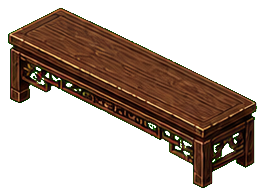
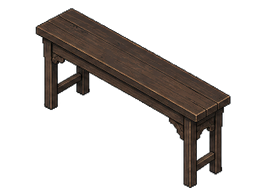
Redo furniture batch 2 assets

diff --git a/tools/cut_task42_furniture_batch2.py b/tools/cut_task42_furniture_batch2.py
@@ -1,0 +1,181 @@
+#!/usr/bin/env python3
+from pathlib import Path
+from PIL import Image, ImageDraw
+
+ROOT = Path(__file__).resolve().parents[1]
+SRC_DIR = ROOT / "assets/source/task42"
+
+ITEMS = {
+    "bed_advanced": {
+        "src": "bed_advanced_sheet_v1.png",
+        "out_dir": ROOT / "assets/furniture/bed",
+        "canvas": (370, 264),
+        "pad": 12,
+        "boxes": [
+            (10, 230, 548, 730),
+            (538, 228, 1074, 734),
+            (1058, 290, 1578, 714),
+            (1566, 290, 2040, 712),
+        ],
+    },
+    "storage_wardrobe": {
+        "src": "storage_wardrobe_sheet_v1.png",
+        "out_dir": ROOT / "assets/furniture/storage",
+        "canvas": (238, 273),
+        "pad": 10,
+        "boxes": [
+            (20, 76, 478, 894),
+            (550, 72, 990, 902),
+            (1058, 78, 1488, 900),
+            (1564, 66, 2012, 900),
+        ],
+    },
+    "table_long": {
+        "src": "table_long_sheet_v1.png",
+        "out_dir": ROOT / "assets/furniture/table",
+        "canvas": (266, 221),
+        "pad": 8,
+        "boxes": [
+            (16, 252, 512, 740),
+            (520, 252, 1018, 740),
+            (1040, 252, 1540, 742),
+            (1538, 250, 2036, 742),
+        ],
+    },
+    "chair_bench": {
+        "src": "chair_bench_sheet_v1.png",
+        "out_dir": ROOT / "assets/furniture/chair",
+        "canvas": (265, 196),
+        "pad": 8,
+        "boxes": [
+            (10, 252, 522, 724),
+            (520, 252, 1032, 728),
+            (1022, 254, 1540, 734),
+            (1532, 252, 2040, 734),
+        ],
+    },
+    "decor_books": {
+        "src": "decor_books_sheet_v1.png",
+        "out_dir": ROOT / "assets/furniture/decor",
+        "canvas": (252, 201),
+        "pad": 10,
+        "boxes": [
+            (34, 244, 528, 704),
+            (530, 250, 1018, 724),
+            (1044, 260, 1524, 724),
+            (1544, 264, 2020, 710),
+        ],
+    },
+}
+
+SUFFIXES = ["", "_r1", "_r2", "_r3"]
+
+
+def white_to_alpha(im):
+    im = im.convert("RGBA")
+    px = im.load()
+    for y in range(im.height):
+        for x in range(im.width):
+            r, g, b, a = px[x, y]
+            dist = max(0, 255 - min(r, g, b))
+            if r > 248 and g > 248 and b > 248:
+                px[x, y] = (r, g, b, 0)
+            elif r > 242 and g > 242 and b > 242:
+                px[x, y] = (r, g, b, min(a, dist * 5))
+    return im
+
+
+def remove_small_fragments(im, min_area=120):
+    alpha = im.getchannel("A")
+    w, h = im.size
+    pix = alpha.load()
+    seen = set()
+    comps = []
+    for y in range(h):
+        for x in range(w):
+            if pix[x, y] <= 8 or (x, y) in seen:
+                continue
+            stack = [(x, y)]
+            seen.add((x, y))
+            pts = []
+            while stack:
+                px, py = stack.pop()
+                pts.append((px, py))
+                for nx in (px - 1, px, px + 1):
+                    for ny in (py - 1, py, py + 1):
+                        if nx < 0 or ny < 0 or nx >= w or ny >= h or (nx, ny) in seen:
+                            continue
+                        if pix[nx, ny] > 8:
+                            seen.add((nx, ny))
+                            stack.append((nx, ny))
+            comps.append(pts)
+    keep = set()
+    for pts in comps:
+        if len(pts) >= min_area:
+            keep.update(pts)
+    out = Image.new("RGBA", im.size, (0, 0, 0, 0))
+    src = im.load()
+    dst = out.load()
+    for x, y in keep:
+        dst[x, y] = src[x, y]
+    return out
+
+
+def strip_edge_alpha(im):
+    px = im.load()
+    w, h = im.size
+    for x in range(w):
+        px[x, 0] = px[x, 0][:3] + (0,)
+        px[x, h - 1] = px[x, h - 1][:3] + (0,)
+    for y in range(h):
+        px[0, y] = px[0, y][:3] + (0,)
+        px[w - 1, y] = px[w - 1, y][:3] + (0,)
+    return im
+
+
+def fit_canvas(crop, canvas, pad):
+    crop = remove_small_fragments(white_to_alpha(crop))
+    bbox = crop.getchannel("A").getbbox()
+    out = Image.new("RGBA", canvas, (0, 0, 0, 0))
+    if not bbox:
+        return out
+    spr = crop.crop(bbox)
+    max_w = canvas[0] - pad * 2
+    max_h = canvas[1] - pad * 2
+    scale = min(max_w / spr.width, max_h / spr.height)
+    nw = max(1, int(spr.width * scale))
+    nh = max(1, int(spr.height * scale))
+    spr = spr.resize((nw, nh), Image.Resampling.LANCZOS)
+    out.alpha_composite(spr, ((canvas[0] - nw) // 2, canvas[1] - pad - nh))
+    return strip_edge_alpha(remove_small_fragments(out))
+
+
+def make_preview(paths, out_path):
+    cell_w = max(Image.open(p).width for p in paths) + 22
+    cell_h = max(Image.open(p).height for p in paths) + 42
+    preview = Image.new("RGBA", (cell_w * 4, cell_h * ((len(paths) + 3) // 4)), (232, 229, 218, 255))
+    d = ImageDraw.Draw(preview)
+    for idx, path in enumerate(paths):
+        im = Image.open(path).convert("RGBA")
+        x = (idx % 4) * cell_w + (cell_w - im.width) // 2
+        y = (idx // 4) * cell_h + 10
+        preview.alpha_composite(im, (x, y))
+        d.text(((idx % 4) * cell_w + 8, y + im.height + 8), path.stem, fill=(0, 0, 0, 255))
+    preview.save(out_path)
+
+
+def main():
+    written = []
+    for item_id, cfg in ITEMS.items():
+        sheet = Image.open(SRC_DIR / cfg["src"]).convert("RGBA")
+        cfg["out_dir"].mkdir(parents=True, exist_ok=True)
+        for suffix, box in zip(SUFFIXES, cfg["boxes"]):
+            out = fit_canvas(sheet.crop(box), cfg["canvas"], cfg["pad"])
+            path = cfg["out_dir"] / f"{item_id}{suffix}.png"
+            out.save(path)
+            written.append(path)
+    make_preview(written, ROOT / "preview_task42_furniture_batch2_x2.png")
+
+
+if __name__ == "__main__":
+    main()
